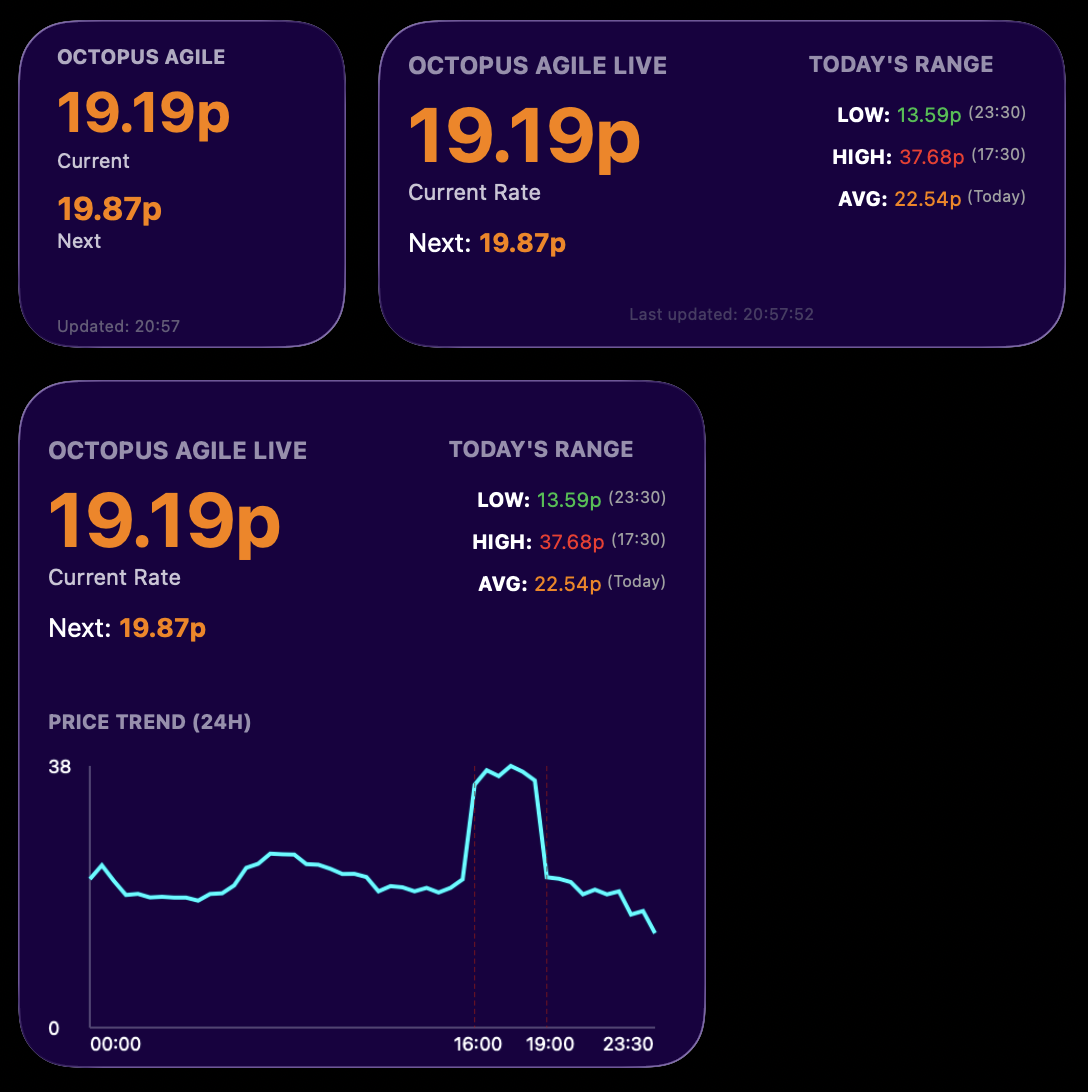
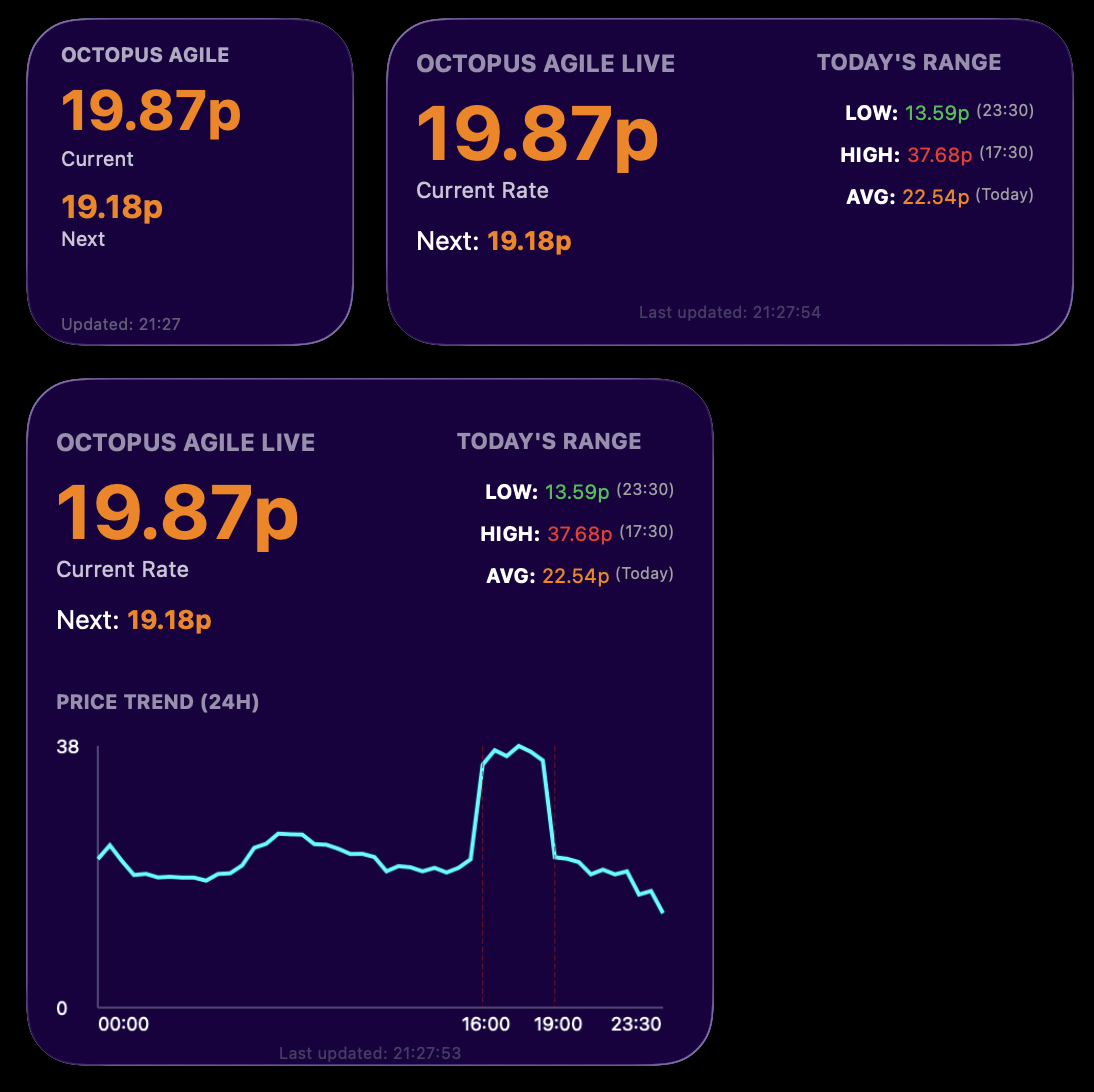
Update Large widget layout: add footer and adjust spacing

diff --git a/octopus_agile_live.js b/octopus_agile_live.js
@@ -62,7 +62,7 @@ if (!prices) {
   } else if (family === "medium") {
     renderMediumWidget(widget, currentSlot, nextSlot, minPrice, maxPrice, avgPrice, lowSlot, peakSlot);
   } else if (family === "large") {
-    renderLargeWidget(widget, currentSlot, nextSlot, minPrice, maxPrice, avgPrice, lowSlot, peakSlot, todayPrices);
+    renderLargeWidget(widget, currentSlot, nextSlot, minPrice, maxPrice, avgPrice, lowSlot, peakSlot, todayPrices, now);
   } else {
     // Default to medium for other sizes or unknown
     renderMediumWidget(widget, currentSlot, nextSlot, minPrice, maxPrice, avgPrice, lowSlot, peakSlot);
@@ -199,7 +199,7 @@ function renderMediumWidget(widget, currentSlot, nextSlot, minPrice, maxPrice, a
   footer.textOpacity = 0.4;
 }
 
-function renderLargeWidget(widget, currentSlot, nextSlot, minPrice, maxPrice, avgPrice, lowSlot, peakSlot, todayPrices) {
+function renderLargeWidget(widget, currentSlot, nextSlot, minPrice, maxPrice, avgPrice, lowSlot, peakSlot, todayPrices, now) {
   widget.setPadding(15, 15, 15, 15);
 
   // Top Half: Reuse Medium Logic structure manually
@@ -259,7 +259,7 @@ function renderLargeWidget(widget, currentSlot, nextSlot, minPrice, maxPrice, av
   rightCol.addSpacer(8);
   addStatRow(rightCol, "AVG", avgPrice, "Today");
 
-  widget.addSpacer(10);
+  widget.addSpacer(4);
 
   // Bottom Half: Graph
   let graphStack = widget.addStack();
@@ -275,6 +275,17 @@ function renderLargeWidget(widget, currentSlot, nextSlot, minPrice, maxPrice, av
   let chartImg = drawChart(todayPrices, minPrice, maxPrice);
   let chart = graphStack.addImage(chartImg);
   chart.applyFillingContentMode();
+
+  widget.addSpacer(4);
+
+  // Footer
+  let df = new DateFormatter();
+  df.dateFormat = "HH:mm:ss";
+  let footer = widget.addText(`Last updated: ${df.string(now)}`);
+  footer.font = Font.systemFont(8);
+  footer.textColor = Color.lightGray();
+  footer.centerAlignText();
+  footer.textOpacity = 0.4;
 }
 
 function drawChart(data, min, max) {
